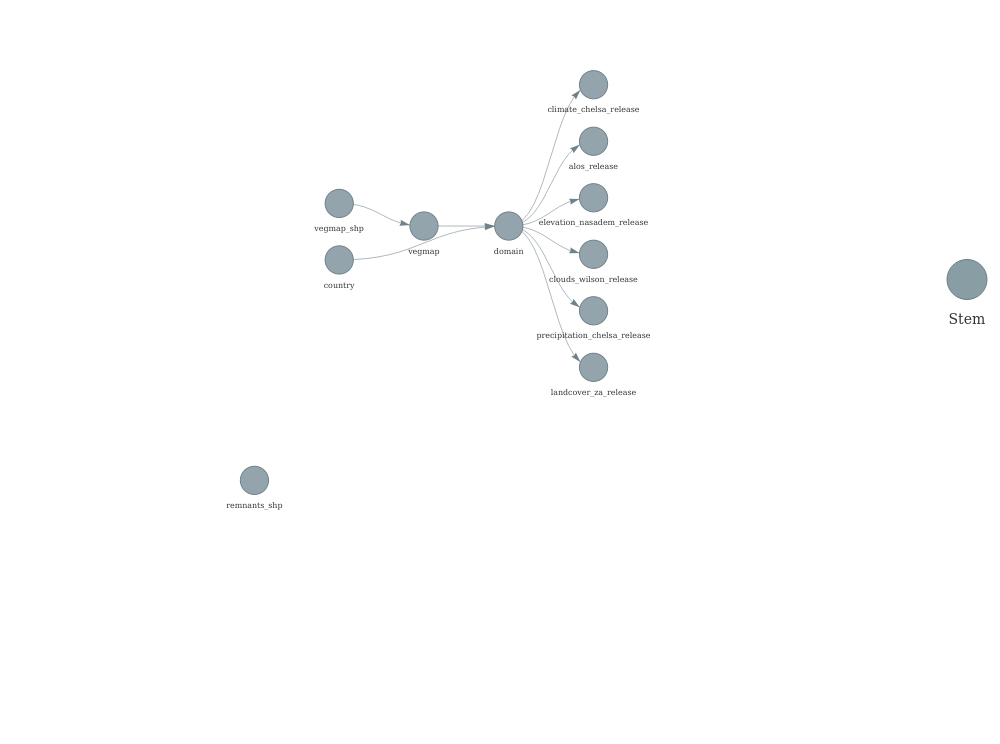
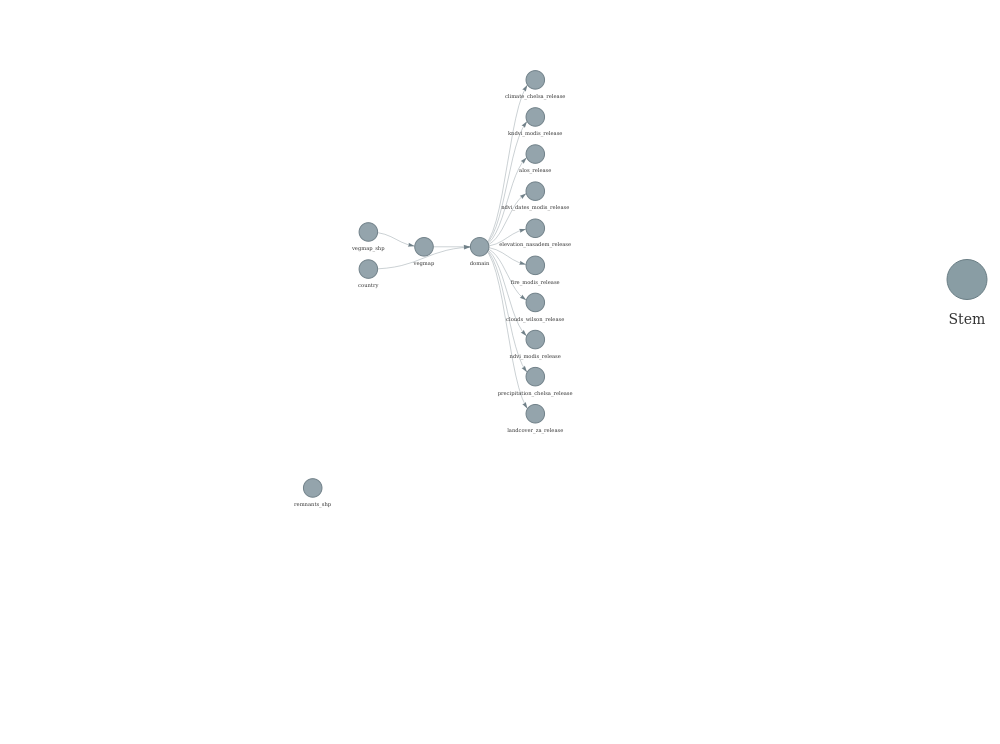
Run pipeline

Changed region(s): [[0.31, 0.0927, 0.651, 0.5874], [0.217, 0.6183, 0.341, 0.6801]]

diff --git a/img/network.html b/img/network.html
@@ -5305,11 +5305,11 @@ HTMLWidgets.widget({
 </head>
 <body style="background-color: white;">
 <div id="htmlwidget_container">
-<div id="htmlwidget-1dabb2ae0d49b9ec4dd0" class="visNetwork html-widget" style="width:960px;height:500px;">
+<div id="htmlwidget-2cdbb020be8e5e6b4648" class="visNetwork html-widget" style="width:960px;height:500px;">
 
 </div>
 </div>
-<script type="application/json" data-for="htmlwidget-1dabb2ae0d49b9ec4dd0">{"x":{"nodes":{"name":["climate_chelsa_release","alos_release","vegmap","remnants_shp","elevation_nasadem_release","domain","clouds_wilson_release","vegmap_shp","precipitation_chelsa_release","landcover_za_release","country"],"type":["stem","stem","stem","stem","stem","stem","stem","stem","stem","stem","stem"],"status":["none","none","none","none","none","none","none","none","none","none","none"],"seconds":[null,null,null,null,null,null,null,null,null,null,null],"bytes":[null,null,null,null,null,null,null,null,null,null,null],"branches":[null,null,null,null,null,null,null,null,null,null,null],"id":["climate_chelsa_release","alos_release","vegmap","remnants_shp","elevation_nasadem_release","domain","clouds_wilson_release","vegmap_shp","precipitation_chelsa_release","landcover_za_release","country"],"label":["climate_chelsa_release","alos_release","vegmap","remnants_shp","elevation_nasadem_release","domain","clouds_wilson_release","vegmap_shp","precipitation_chelsa_release","landcover_za_release","country"],"level":[4,4,2,0,4,3,4,1,4,4,1],"color":["#94a4ac","#94a4ac","#94a4ac","#94a4ac","#94a4ac","#94a4ac","#94a4ac","#94a4ac","#94a4ac","#94a4ac","#94a4ac"],"shape":["dot","dot","dot","dot","dot","dot","dot","dot","dot","dot","dot"]},"edges":{"from":["domain","domain","vegmap_shp","domain","country","vegmap","domain","domain","domain"],"to":["climate_chelsa_release","alos_release","vegmap","elevation_nasadem_release","domain","domain","clouds_wilson_release","precipitation_chelsa_release","landcover_za_release"],"arrows":["to","to","to","to","to","to","to","to","to"]},"nodesToDataframe":true,"edgesToDataframe":true,"options":{"width":"100%","height":"100%","nodes":{"shape":"dot","physics":false},"manipulation":{"enabled":false},"edges":{"smooth":{"type":"cubicBezier","forceDirection":"horizontal"}},"physics":{"stabilization":false},"layout":{"hierarchical":{"enabled":true,"direction":"LR"}}},"groups":null,"width":null,"height":null,"idselection":{"enabled":false,"style":"width: 150px; height: 26px","useLabels":true,"main":"Select by id"},"byselection":{"enabled":false,"style":"width: 150px; height: 26px","multiple":false,"hideColor":"rgba(200,200,200,0.5)","highlight":false},"main":{"text":"","style":"font-family:Georgia, Times New Roman, Times, serif;font-weight:bold;font-size:20px;text-align:center;"},"submain":null,"footer":null,"background":"rgba(0, 0, 0, 0)","highlight":{"enabled":true,"hoverNearest":false,"degree":{"from":1,"to":1},"algorithm":"hierarchical","hideColor":"rgba(200,200,200,0.5)","labelOnly":true},"collapse":{"enabled":true,"fit":false,"resetHighlight":true,"clusterOptions":null,"keepCoord":true,"labelSuffix":"(cluster)"},"legend":{"width":0.2,"useGroups":false,"position":"right","ncol":1,"stepX":100,"stepY":100,"zoom":true,"nodes":{"label":["Stem"],"shape":["dot"],"color":["#899DA4"]},"nodesToDataframe":true}},"evals":[],"jsHooks":[]}</script>
-<script type="application/htmlwidget-sizing" data-for="htmlwidget-1dabb2ae0d49b9ec4dd0">{"viewer":{"width":450,"height":350,"padding":15,"fill":true},"browser":{"width":960,"height":500,"padding":40,"fill":false}}</script>
+<script type="application/json" data-for="htmlwidget-2cdbb020be8e5e6b4648">{"x":{"nodes":{"name":["climate_chelsa_release","kndvi_modis_release","alos_release","vegmap","remnants_shp","ndvi_dates_modis_release","elevation_nasadem_release","domain","fire_modis_release","clouds_wilson_release","ndvi_modis_release","vegmap_shp","precipitation_chelsa_release","landcover_za_release","country"],"type":["stem","stem","stem","stem","stem","stem","stem","stem","stem","stem","stem","stem","stem","stem","stem"],"status":["none","none","none","none","none","none","none","none","none","none","none","none","none","none","none"],"seconds":[null,null,null,null,null,null,null,null,null,null,null,null,null,null,null],"bytes":[null,null,null,null,null,null,null,null,null,null,null,null,null,null,null],"branches":[null,null,null,null,null,null,null,null,null,null,null,null,null,null,null],"id":["climate_chelsa_release","kndvi_modis_release","alos_release","vegmap","remnants_shp","ndvi_dates_modis_release","elevation_nasadem_release","domain","fire_modis_release","clouds_wilson_release","ndvi_modis_release","vegmap_shp","precipitation_chelsa_release","landcover_za_release","country"],"label":["climate_chelsa_release","kndvi_modis_release","alos_release","vegmap","remnants_shp","ndvi_dates_modis_release","elevation_nasadem_release","domain","fire_modis_release","clouds_wilson_release","ndvi_modis_release","vegmap_shp","precipitation_chelsa_release","landcover_za_release","country"],"level":[4,4,4,2,0,4,4,3,4,4,4,1,4,4,1],"color":["#94a4ac","#94a4ac","#94a4ac","#94a4ac","#94a4ac","#94a4ac","#94a4ac","#94a4ac","#94a4ac","#94a4ac","#94a4ac","#94a4ac","#94a4ac","#94a4ac","#94a4ac"],"shape":["dot","dot","dot","dot","dot","dot","dot","dot","dot","dot","dot","dot","dot","dot","dot"]},"edges":{"from":["domain","domain","domain","vegmap_shp","domain","domain","country","vegmap","domain","domain","domain","domain","domain"],"to":["climate_chelsa_release","kndvi_modis_release","alos_release","vegmap","ndvi_dates_modis_release","elevation_nasadem_release","domain","domain","fire_modis_release","clouds_wilson_release","ndvi_modis_release","precipitation_chelsa_release","landcover_za_release"],"arrows":["to","to","to","to","to","to","to","to","to","to","to","to","to"]},"nodesToDataframe":true,"edgesToDataframe":true,"options":{"width":"100%","height":"100%","nodes":{"shape":"dot","physics":false},"manipulation":{"enabled":false},"edges":{"smooth":{"type":"cubicBezier","forceDirection":"horizontal"}},"physics":{"stabilization":false},"layout":{"hierarchical":{"enabled":true,"direction":"LR"}}},"groups":null,"width":null,"height":null,"idselection":{"enabled":false,"style":"width: 150px; height: 26px","useLabels":true,"main":"Select by id"},"byselection":{"enabled":false,"style":"width: 150px; height: 26px","multiple":false,"hideColor":"rgba(200,200,200,0.5)","highlight":false},"main":{"text":"","style":"font-family:Georgia, Times New Roman, Times, serif;font-weight:bold;font-size:20px;text-align:center;"},"submain":null,"footer":null,"background":"rgba(0, 0, 0, 0)","highlight":{"enabled":true,"hoverNearest":false,"degree":{"from":1,"to":1},"algorithm":"hierarchical","hideColor":"rgba(200,200,200,0.5)","labelOnly":true},"collapse":{"enabled":true,"fit":false,"resetHighlight":true,"clusterOptions":null,"keepCoord":true,"labelSuffix":"(cluster)"},"legend":{"width":0.2,"useGroups":false,"position":"right","ncol":1,"stepX":100,"stepY":100,"zoom":true,"nodes":{"label":["Stem"],"shape":["dot"],"color":["#899DA4"]},"nodesToDataframe":true}},"evals":[],"jsHooks":[]}</script>
+<script type="application/htmlwidget-sizing" data-for="htmlwidget-2cdbb020be8e5e6b4648">{"viewer":{"width":450,"height":350,"padding":15,"fill":true},"browser":{"width":960,"height":500,"padding":40,"fill":false}}</script>
 </body>
 </html>
